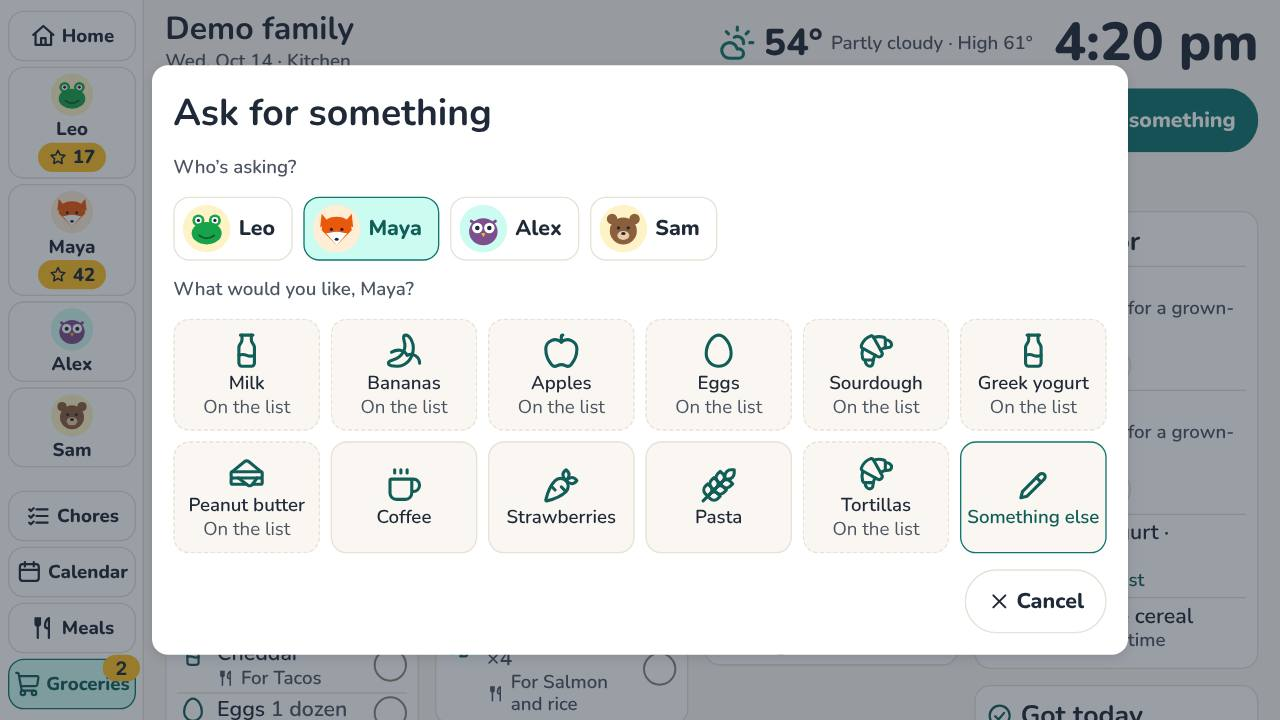
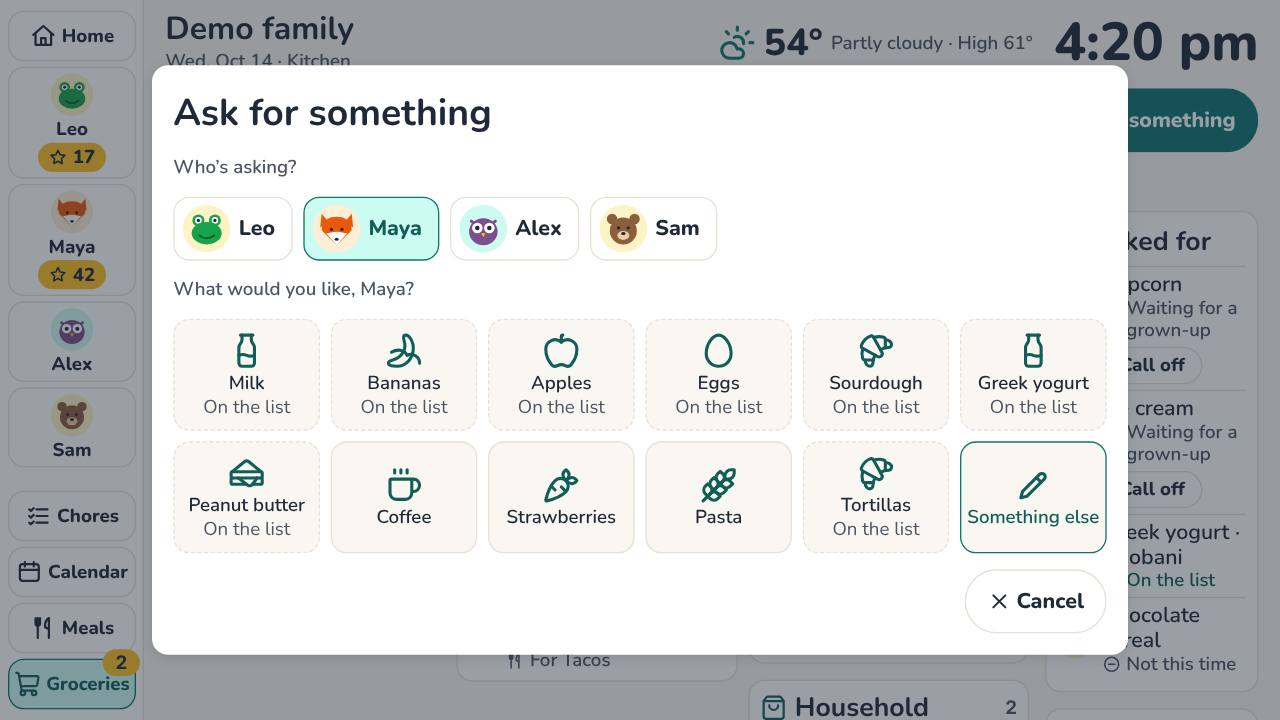
[MEAL-22][MEAL-30] WP-107: a long board list keeps names to two lines and is reached by touch
The side cards take 320 px and a thing's brand is set at the board's small size (28 px), so with the
Asked for and Got today cards beside them the list's three columns keep every name and brand to two
lines. The dev board gains ?groceries=long (35 things); the UI suite checks no name wraps past two
lines and that the last thing is reached and opened by touch; the screen shots add the long list
from the top and with its last thing opened. The rail's count sits above the word.

Claude-Session: https://claude.ai/code/session_019Ro1JkRRxvA5dTxsNGyjRt

diff --git a/apps/web/app/dev/board/fixture.ts b/apps/web/app/dev/board/fixture.ts
@@ -1457,7 +1457,14 @@ export function fixtureGroceries(
   which: string | undefined,
   now: Date = new Date(),
 ): BoardGroceries | null {
-  if (which !== '1' && which !== 'busy' && which !== 'empty' && which !== 'full') return null;
+  if (
+    which !== '1' &&
+    which !== 'busy' &&
+    which !== 'empty' &&
+    which !== 'full' &&
+    which !== 'long'
+  )
+    return null;
   const people = new Map([
     [GROCERY_PEOPLE.find((p) => p.name === 'Leo')!.id, LEO],
     [GROCERY_PEOPLE.find((p) => p.name === 'Maya')!.id, MAYA],
@@ -1564,6 +1571,39 @@ export function fixtureGroceries(
     k('Yogurt tubes', 'yogurt tube', 0),
     k('Rice', 'rice', 0),
   ];
+  // [MEAL-22] 'long': 16 more made-up things, so the list runs well past the board's 1080 px (WP-107).
+  if (which === 'long') {
+    const more: [string, string][] = [
+      ['Blueberries', 'produce'],
+      ['Carrots', 'produce'],
+      ['Cucumbers', 'produce'],
+      ['Garlic', 'produce'],
+      ['Butter', 'dairy'],
+      ['Sour cream', 'dairy'],
+      ['Bagels', 'bakery'],
+      ['Hamburger buns', 'bakery'],
+      ['Chicken thighs', 'meat'],
+      ['Bacon', 'meat'],
+      ['Spaghetti', 'pantry'],
+      ['Tomato sauce', 'pantry'],
+      ['Olive oil', 'pantry'],
+      ['Trash bags', 'household'],
+      ['Laundry detergent', 'household'],
+      ['Sponges', 'household'],
+    ];
+    more.forEach(([name, key], i) =>
+      items.push({
+        ...items[0]!,
+        id: `f1a80000-0000-4000-8000-${String(i + 1).padStart(12, '0')}`,
+        name,
+        amount: null,
+        categoryId: cat(key),
+        storeId: null,
+        brandId: null,
+        reasons: [],
+      }),
+    );
+  }
   return {
     ever: true,
     categories: GROCERY_CATEGORIES,

diff --git a/e2e/ui/board-grocery-asks.spec.ts b/e2e/ui/board-grocery-asks.spec.ts
@@ -199,3 +199,39 @@ test('[MEAL-30-d] a child takes off what only they asked for', async ({ page }) 
   await dialog(page).getByRole('button', { name: 'Take it off the list' }).click();
   await expect(bar(page)).toContainText('Took Apples off the list.');
 });
+
+test.describe('a long list, by touch', () => {
+  test.use({ hasTouch: true });
+
+  test('[MEAL-22-h][MEAL-30-d] 35 things: each name and brand in two lines at most; the last reached by touch', async ({
+    page,
+  }) => {
+    await openGroceries(page, 'groceries=long');
+    await expect(screen(page)).toContainText('35 to get');
+    const over = await screen(page)
+      .locator('.fw-bgroc__nm')
+      .evaluateAll((els) =>
+        els
+          .filter((e) => {
+            const line = parseFloat(getComputedStyle(e).lineHeight);
+            return Math.round(e.getBoundingClientRect().height / line) > 2;
+          })
+          .map((e) => e.textContent),
+      );
+    expect(over).toEqual([]);
+    // The screen scrolls inside itself; the list's last thing is below the fold until it does.
+    const scroller = page.locator('.fw-today__screen');
+    expect(
+      await scroller.evaluate((s) => ({
+        overflow: getComputedStyle(s).overflowY,
+        more: s.scrollHeight > s.clientHeight,
+      })),
+    ).toEqual({ overflow: 'auto', more: true });
+    const last = screen(page).getByRole('button', { name: /^Trash bags: got it/ });
+    await last.tap();
+    await expect(
+      page.getByRole('dialog').getByRole('heading', { name: /Trash bags/ }),
+    ).toBeVisible();
+    expect(await fit(page)).toEqual({ wide: 1920, small: [], tiny: [] });
+  });
+});

diff --git a/packages/ui/src/ui.css b/packages/ui/src/ui.css
@@ -6794,6 +6794,11 @@ textarea.fw-groc__addinput {
 .fw-bgroc__brand {
   color: var(--text-soft);
 }
+/* [MEAL-22] The brand a step smaller (still 28 px), so a thing and its brand keep to two lines in
+   the three columns beside the Asked for card (WP-107). */
+.fw-bgroc__nm .fw-bgroc__brand {
+  font-size: var(--t-small);
+}
 .fw-bgroc__wy {
   grid-column: 2;
   display: flex;
@@ -6836,7 +6841,7 @@ textarea.fw-groc__addinput {
 }
 .fw-today__railcount {
   position: absolute;
-  top: -8px;
+  top: -16px;
   right: -8px;
   display: inline-grid;
   place-items: center;
@@ -6864,18 +6869,19 @@ textarea.fw-groc__addinput {
 }
 .fw-bgroc__body {
   display: grid;
-  grid-template-columns: minmax(0, 1fr) minmax(340px, 26%);
+  grid-template-columns: minmax(0, 1fr) 320px;
   gap: var(--s-6);
   align-items: start;
 }
 .fw-bgroc__body .fw-bgroc__cols {
   columns: 3 300px;
+  column-gap: var(--s-4);
 }
 .fw-bgroc__sec li {
   display: block;
 }
 button.fw-bgroc__it {
-  grid-template-columns: 48px minmax(0, 1fr) 48px;
+  grid-template-columns: 44px minmax(0, 1fr) 44px;
   width: 100%;
   border-right: 0;
   border-bottom: 0;

diff --git a/apps/web/app/dev/board/page.tsx b/apps/web/app/dev/board/page.tsx
@@ -22,7 +22,8 @@ import { KITCHEN_SLEEP } from './fixture';
 // a goal done by a time and paid in steps (WP-81: ?steps=going|won|weighted, Maya's); a family goal
 // every child meets and Maya's perfect weeks (WP-82: ?perfect=going|missed|won); a request the server
 // took that Realtime never reports, shown by the board's own read (WP-110: ?missed=1); the grocery list
-// (WP-104: ?groceries=1, or ?groceries=empty for one emptied; none by default, no rail button).
+// (WP-104: ?groceries=1, or ?groceries=empty for one emptied; none by default, no rail button; WP-107: ?groceries=full
+// for Maya's 5 asks waiting, ?groceries=long for 35 things).
 export const metadata: Metadata = { title: 'Board Today', robots: { index: false } };
 
 export default async function DevBoardPage({

diff --git a/docs/08-test-strategy.md b/docs/08-test-strategy.md
@@ -277,7 +277,7 @@ Generated from the tests by `python3 docs/check_traceability.py --docs docs --fi
 
 ### 9.1 Coverage summary
 
-**3153** tests: Unit 991 · DB 1664 · UI 355 · E2E 143. 2631 name at least one ID; 522 name none.
+**3154** tests: Unit 991 · DB 1664 · UI 356 · E2E 143. 2632 name at least one ID; 522 name none.
 
 | Measure | Count |
 |---|---|
@@ -305,14 +305,14 @@ Area is the domain of the first requirement a test names. Layers: Unit (Vitest, 
 | Goals and rewards | 198 | 140 | 47 | 8 | 393 |
 | Calendar | 67 | 92 | 19 | 5 | 183 |
 | School year | 10 | 43 | 1 | 4 | 58 |
-| Meals and lunch | 124 | 159 | 84 | 19 | 386 |
+| Meals and lunch | 124 | 159 | 85 | 19 | 387 |
 | School menu | 30 | 14 | 8 | 3 | 55 |
 | Board | 29 | 68 | 34 | 11 | 142 |
 | Boards and devices | 67 | 84 | 14 | 13 | 178 |
 | Admin and members | 27 | 87 | 11 | 15 | 140 |
 | Platform | 197 | 167 | 61 | 18 | 443 |
 | Not named | 58 | 499 | 10 | 1 | 568 |
-| **Total** | **991** | **1664** | **355** | **143** | **3153** |
+| **Total** | **991** | **1664** | **356** | **143** | **3154** |
 
 ### 9.3 By requirement
 
@@ -418,7 +418,7 @@ Status: **Covered** (built, and at least one test names it), **Gap** (built, no 
 | MEAL-19 | S | Covered | US-715 | WP-105, WP-113 | MEAL-19-a, MEAL-19-b, MEAL-19-c, MEAL-19-d, MEAL-19-e, MEAL-19-f | U 4 · DB 2 · UI 2 · E2E 1 |
 | MEAL-20 | S | Covered | US-715 | WP-105 | MEAL-20-a, MEAL-20-b, MEAL-20-c, MEAL-20-d | U 8 · DB 2 · E2E 1 |
 | MEAL-21 | S | Not built | US-716 | WP-106 | — | — |
-| MEAL-22 | S | Covered | US-717 | WP-107 | MEAL-22-a, MEAL-22-b, MEAL-22-c, MEAL-22-d, MEAL-22-e, MEAL-22-f, MEAL-22-g, MEAL-22-h, MEAL-22-i, MEAL-22-j | U 9 · DB 34 · UI 6 · E2E 1 |
+| MEAL-22 | S | Covered | US-717 | WP-107 | MEAL-22-a, MEAL-22-b, MEAL-22-c, MEAL-22-d, MEAL-22-e, MEAL-22-f, MEAL-22-g, MEAL-22-h, MEAL-22-i, MEAL-22-j | U 9 · DB 34 · UI 7 · E2E 1 |
 | MEAL-23 | S | Covered | US-718 | WP-104 | MEAL-23-a, MEAL-23-b, MEAL-23-c, MEAL-23-d, MEAL-23-e | U 3 · DB 3 · UI 3 · E2E 1 |
 | MEAL-24 | S | Covered | US-719 | WP-104 | MEAL-24-a, MEAL-24-b, MEAL-24-c, MEAL-24-d, MEAL-24-e | U 5 · DB 1 · UI 1 |
 | MEAL-25 | S | Covered | US-720 | WP-96, WP-105 | MEAL-25-h, MEAL-25-a, MEAL-25-b, MEAL-25-c, MEAL-25-d, MEAL-25-e, MEAL-25-f, MEAL-25-g | U 13 · DB 2 · UI 2 · E2E 1 |
@@ -426,7 +426,7 @@ Status: **Covered** (built, and at least one test names it), **Gap** (built, no 
 | MEAL-27 | S | Covered | US-721 | WP-112 | MEAL-27-a, MEAL-27-b, MEAL-27-c, MEAL-27-d, MEAL-27-e | U 2 · UI 7 · E2E 1 |
 | MEAL-28 | S | Covered | US-721 | WP-112 | MEAL-28-a, MEAL-28-b, MEAL-28-c, MEAL-28-d, MEAL-28-e, MEAL-28-f, MEAL-28-g | U 2 · DB 13 · UI 4 · E2E 1 |
 | MEAL-29 | S | Covered | US-722 | WP-116 | MEAL-29-a, MEAL-29-b, MEAL-29-c, MEAL-29-d, MEAL-29-e, MEAL-29-f, MEAL-29-g, MEAL-29-h, MEAL-29-i, MEAL-29-j, MEAL-29-k, MEAL-29-l | U 11 · DB 37 · UI 15 · E2E 1 |
-| MEAL-30 | S | Covered | US-723 | WP-107 | MEAL-30-a, MEAL-30-b, MEAL-30-c, MEAL-30-d, MEAL-30-e | U 4 · DB 14 · UI 3 · E2E 1 |
+| MEAL-30 | S | Covered | US-723 | WP-107 | MEAL-30-a, MEAL-30-b, MEAL-30-c, MEAL-30-d, MEAL-30-e | U 4 · DB 14 · UI 4 · E2E 1 |
 | MENU-01 | M | Covered | US-801 | WP-27 | — | U 3 · DB 1 · UI 2 · E2E 1 |
 | MENU-02 | M | Covered | US-801 | WP-27 | — | U 4 · DB 2 · UI 2 · E2E 1 |
 | MENU-03 | M | Covered | US-802 | WP-27 | — | U 6 · DB 3 · UI 2 · E2E 1 |
@@ -860,13 +860,13 @@ Test cases and the tests that prove them:
 | MEAL-22-e | WP-107 | A waiting ask counts in the approvals alert ("Maya: 1 grocery ask waiting"), which opens Groceries when only asks wait, and an ask calls the alert at once | DB | DB `supabase/tests/610_board_grocery_asks.test.sql`: `[MEAL-22-e] a waiting ask calls the alert at once (once per transaction)`<br>DB `supabase/tests/610_board_grocery_asks.test.sql`: `[MEAL-22-e] the alert counts them`<br>DB `supabase/tests/610_board_grocery_asks.test.sql`: `[MEAL-22-e] with only asks waiting, it opens Groceries` |
 | MEAL-22-f | WP-107 | The board's Asked for card: "Waiting for a grown-up", "On the list", and until the household's day ends "Got it!" (its item ticked) or "Not this time"; a call-off goes; the 11 tiles are the most-bought things (a made-up starter set without history), each marked "On the list" or "Asked" | Unit | Unit `apps/web/lib/grocery-asks.test.ts`: `[MEAL-22] the board’s Asked for card › [MEAL-22-f] says how each ask stands, in words, and leaves out what has gone`<br>Unit `apps/web/lib/grocery-asks.test.ts`: `[MEAL-22] the board’s Asked for card › [MEAL-22-f] reads the asks, Got today and what the household has had from board_groceries()`<br>Unit `apps/web/lib/grocery-asks.test.ts`: `[MEAL-22] the board’s Asked for card › [MEAL-22-f] the tiles: the most bought first, the starter set after, marked on the list or asked` |
 | MEAL-22-g | WP-107 | The brand row for a thing: the household's brands it has had, last time's first and picked, then No brand; none when it never had one; the answer's words: "Asked for Popcorn, Maya. A grown-up will say OK.", "Added Popcorn to the list.", "Already on the list! We added that you asked.", "You have 5 asks waiting." | Unit | Unit `apps/web/lib/grocery-asks.test.ts`: `[MEAL-22] the brand row and the words › [MEAL-22-g] the household’s brands the thing has had, last time’s first and picked; none without`<br>Unit `apps/web/lib/grocery-asks.test.ts`: `[MEAL-22] the brand row and the words › [MEAL-22-g] what the board says back`<br>Unit `apps/web/lib/grocery-asks.test.ts`: `[MEAL-22] the brand row and the words › [MEAL-22-g] matches what is typed: starting with it first, then holding it, at most 3` |
-| MEAL-22-h | WP-107 | The board's Groceries on the demo family, Day and Evening: Ask for something; who, then the tiles; the brand row; Something else on the board's keyboard with matches; the Asked bar; 5 waiting greys the tiles; Call off; text 28 px or more and buttons 56 px or more | UI | UI `e2e/ui/board-grocery-asks.spec.ts`: `[MEAL-22-h] Ask for something, the Asked for card and Got today, 28 px and 56 px, in ${theme}`<br>UI `e2e/ui/board-grocery-asks.spec.ts`: `[MEAL-22-h] a tile with brands shows its brand row; asking says it waits; Call off takes it back`<br>UI `e2e/ui/board-grocery-asks.spec.ts`: `[MEAL-22-h] Something else on the board’s keyboard, with matches; an adult’s ask goes on the list`<br>UI `e2e/ui/board-grocery-asks.spec.ts`: `[MEAL-22-h] with 5 waiting, a child’s tiles grey out and say why` |
+| MEAL-22-h | WP-107 | The board's Groceries on the demo family, Day and Evening: Ask for something; who, then the tiles; the brand row; Something else on the board's keyboard with matches; the Asked bar; 5 waiting greys the tiles; Call off; text 28 px or more and buttons 56 px or more | UI | UI `e2e/ui/board-grocery-asks.spec.ts`: `[MEAL-22-h] Ask for something, the Asked for card and Got today, 28 px and 56 px, in ${theme}`<br>UI `e2e/ui/board-grocery-asks.spec.ts`: `[MEAL-22-h] a tile with brands shows its brand row; asking says it waits; Call off takes it back`<br>UI `e2e/ui/board-grocery-asks.spec.ts`: `[MEAL-22-h] Something else on the board’s keyboard, with matches; an adult’s ask goes on the list`<br>UI `e2e/ui/board-grocery-asks.spec.ts`: `[MEAL-22-h] with 5 waiting, a child’s tiles grey out and say why`<br>UI `e2e/ui/board-grocery-asks.spec.ts`: `a long list, by touch › [MEAL-22-h][MEAL-30-d] 35 things: each name and brand in two lines at most; the last reached by touch` |
 | MEAL-22-i | WP-107 | The admin app's Groceries: Asked for with Add it, Not this time and Add all, and Wait for a grown-up's OK with a switch per child; Home's Needs you line; on a phone and a laptop, Day and Evening, nothing overflows | UI | Unit `apps/web/lib/grocery-asks.test.ts`: `[MEAL-22] the brand row and the words › [MEAL-22-i] Home’s Needs you says how many grocery asks wait, and opens Groceries`<br>UI `e2e/ui/grocery-asks.spec.ts`: `grocery asks on ${device} › [MEAL-22-i] Asked for with Add it, Not this time, Add all and each child’s OK, in ${theme}`<br>UI `e2e/ui/grocery-asks.spec.ts`: `grocery asks on ${device} › [MEAL-22-i] Home’s Needs you counts the grocery asks and opens Asked for` |
 | MEAL-22-j | WP-107 | On the real preview, a child asks at a paired board, a parent adds it on Groceries, and the item is on the list with "Maya asked" | E2E | E2E `e2e/tests/board-grocery-asks.spec.ts`: `[MEAL-22-j][US-717] Maya asks at the board; it waits; Alex adds it; it is on the list as hers` |
 | MEAL-30-a | WP-107 | A board ticks, unticks and takes off only its own household's items, as one of its own members (`board_tick_groceries()`, `board_remove_groceries()`); each is recorded with the member and the board; a tick is a buy (Got recently), a removal isn't | DB | DB `supabase/tests/610_board_grocery_asks.test.sql`: `[MEAL-30-a] another household's board can't tick this household's items`<br>DB `supabase/tests/610_board_grocery_asks.test.sql`: `[MEAL-30-a] nor as another household's member`<br>DB `supabase/tests/610_board_grocery_asks.test.sql`: `[MEAL-30-a] a parent's session is not a board`<br>DB `supabase/tests/610_board_grocery_asks.test.sql`: `[MEAL-30-a] Leo ticks Rice`<br>DB `supabase/tests/610_board_grocery_asks.test.sql`: `[MEAL-30-a] a buy, by Leo at the Kitchen board`<br>DB `supabase/tests/610_board_grocery_asks.test.sql`: `[MEAL-30-a] Untick puts it back`<br>DB `supabase/tests/610_board_grocery_asks.test.sql`: `[MEAL-30-a] the removal is Pat's, not a buy` |
 | MEAL-30-b | WP-107 | A child ticks anything but takes off only a thing every reason of which is their own ask; an adult takes off anything; Undo (`board_restore_groceries()`) puts back what that board took off in the last 10 minutes, folded into the same thing if it was added again meanwhile | DB | DB `supabase/tests/610_board_grocery_asks.test.sql`: `[MEAL-30-b] Leo can't take off what Pat added`<br>DB `supabase/tests/610_board_grocery_asks.test.sql`: `[MEAL-30-b] nor can Maya take off Milk, which she only joined`<br>DB `supabase/tests/610_board_grocery_asks.test.sql`: `[MEAL-30-b] Leo takes off Apples, his own ask`<br>DB `supabase/tests/610_board_grocery_asks.test.sql`: `[MEAL-30-b] Pat takes off Paper towels`<br>DB `supabase/tests/610_board_grocery_asks.test.sql`: `[MEAL-30-b] another household's board can't undo it`<br>DB `supabase/tests/610_board_grocery_asks.test.sql`: `[MEAL-30-b] Undo puts it back`<br>DB `supabase/tests/610_board_grocery_asks.test.sql`: `[MEAL-30-b] ... once: the one added meanwhile is folded into it` |
 | MEAL-30-c | WP-107 | The face picked stays 2 minutes; Got today lists today's ticks newest first, 5 then "and 3 more"; Take it off is greyed for a child with "Only a grown-up can take this off." unless it is only their ask; Got recently says "Got by Leo at the Kitchen board" | Unit | Unit `apps/web/lib/grocery-asks.test.ts`: `[MEAL-30] ticking off and taking off at the board › [MEAL-30-c] the face picked stays 2 minutes`<br>Unit `apps/web/lib/grocery-asks.test.ts`: `[MEAL-30] ticking off and taking off at the board › [MEAL-30-c] a child takes off only what they alone asked for; an adult anything`<br>Unit `apps/web/lib/grocery-asks.test.ts`: `[MEAL-30] ticking off and taking off at the board › [MEAL-30-c] Got today: newest first, 5, then how many more`<br>Unit `apps/web/lib/grocery-asks.test.ts`: `[MEAL-30] ticking off and taking off at the board › [MEAL-30-c] Got recently says who got it, and at which board`<br>UI `e2e/ui/grocery-asks.spec.ts`: `grocery asks on ${device} › [MEAL-30-c] Got recently says who got a thing at the board` |
-| MEAL-30-d | WP-107 | The board's item sheet with Who's this?, Got it and Take it off the list; the Undo bar; Got today with Untick; Day and Evening, 56 px targets | UI | UI `e2e/ui/board-grocery-asks.spec.ts`: `[MEAL-30-d] a thing’s sheet: who, Got it, Take it off with Undo, Got today with Untick, in ${theme}`<br>UI `e2e/ui/board-grocery-asks.spec.ts`: `[MEAL-30-d] a child takes off what only they asked for` |
+| MEAL-30-d | WP-107 | The board's item sheet with Who's this?, Got it and Take it off the list; the Undo bar; Got today with Untick; Day and Evening, 56 px targets | UI | UI `e2e/ui/board-grocery-asks.spec.ts`: `[MEAL-30-d] a thing’s sheet: who, Got it, Take it off with Undo, Got today with Untick, in ${theme}`<br>UI `e2e/ui/board-grocery-asks.spec.ts`: `[MEAL-30-d] a child takes off what only they asked for`<br>UI `e2e/ui/board-grocery-asks.spec.ts`: `a long list, by touch › [MEAL-22-h][MEAL-30-d] 35 things: each name and brand in two lines at most; the last reached by touch` |
 | MEAL-30-e | WP-107 | On the real preview, at a paired board, an adult ticks a thing and takes another off and puts it back with Undo; the admin app's Got recently says who got it at that board | E2E | E2E `e2e/tests/board-grocery-asks.spec.ts`: `[MEAL-30-e][US-723] Sam ticks a thing off, takes another off and puts it back; Got recently says so` |
 | MEAL-27-a | WP-112 | Home's card says "8 on the list", "1 on the list" or "Nothing on the list"; as an item is typed its line says its category and its store with why ("Meat & Seafood · Kroger, where it went last time", "Pantry · Costco, your preferred store", "Other · Any store"); something already on the list says "Onions ×3 are on the list already. Adding makes ×4." | Unit | Unit `apps/web/lib/groceries.test.ts`: `the store suggested, and Home’s card (WP-112) › [MEAL-27-a] the card’s count and its line as an item is typed` |
 | MEAL-27-b | WP-112 | After Add the card says "Added Ground beef 2 lb to Meat & Seafood." with the item's name and amount as the list now has them, merged or new | Unit | Unit `apps/web/lib/groceries.test.ts`: `the store suggested, and Home’s card (WP-112) › [MEAL-27-b] after Add, the item as the list now has it` |
@@ -2929,7 +2929,7 @@ UI · 4 tests
 
 #### `e2e/ui/board-grocery-asks.spec.ts`
 
-UI · 6 tests
+UI · 7 tests
 
 | Test | Names |
 |---|---|
@@ -2939,6 +2939,7 @@ UI · 6 tests
 | `[MEAL-22-h] with 5 waiting, a child’s tiles grey out and say why` | MEAL-22-h |
 | `[MEAL-30-d] a thing’s sheet: who, Got it, Take it off with Undo, Got today with Untick, in ${theme}` | MEAL-30-d |
 | `[MEAL-30-d] a child takes off what only they asked for` | MEAL-30-d |
+| `a long list, by touch › [MEAL-22-h][MEAL-30-d] 35 things: each name and brand in two lines at most; the last reached by touch` | MEAL-22-h, MEAL-30-d |
 
 #### `e2e/ui/board-meals.spec.ts`
 

diff --git a/docs/04-requirements-traceability.md b/docs/04-requirements-traceability.md
@@ -272,7 +272,7 @@ Stories and Work packages are generated from `03-user-stories.md` and `05-backlo
 | MEAL-19 | US-715 | WP-105, WP-113 | ADM, API, DB | meal, meal_plan_entry, grocery_item | U, DB, E2E | U 4 · DB 2 · UI 2 · E2E 1 |
 | MEAL-20 | US-715 | WP-105 | API, DB | grocery_item, grocery_item_event | U, DB | U 8 · DB 2 · E2E 1 |
 | MEAL-21 | US-716 | WP-106 | ADM, DB | grocery_item, grocery_item_event | U, DB, E2E | — |
-| MEAL-22 | US-717 | WP-107 | BRD, ADM, API, DB | grocery_ask, grocery_item, grocery_item_event | U, DB, E2E | U 9 · DB 34 · UI 6 · E2E 1 |
+| MEAL-22 | US-717 | WP-107 | BRD, ADM, API, DB | grocery_ask, grocery_item, grocery_item_event | U, DB, E2E | U 9 · DB 34 · UI 7 · E2E 1 |
 | MEAL-23 | US-718 | WP-104 | ADM, BRD, DB | grocery_category, grocery_store, grocery_item | U, DB, E2E | U 3 · DB 3 · UI 3 · E2E 1 |
 | MEAL-24 | US-719 | WP-104 | ADM, DB | grocery_item, grocery_item_event | U, DB | U 5 · DB 1 · UI 1 |
 | MEAL-25 | US-720 | WP-96, WP-105 | ADM, API, DB | meal, meal_recipe_file | U, DB, E2E | U 13 · DB 2 · UI 2 · E2E 1 |
@@ -280,7 +280,7 @@ Stories and Work packages are generated from `03-user-stories.md` and `05-backlo
 | MEAL-27 | US-721 | WP-112 | ADM, DB | grocery_item, grocery_category, grocery_store | U, E2E | U 2 · UI 7 · E2E 1 |
 | MEAL-28 | US-721 | WP-112 | ADM, DB | grocery_list, grocery_store, grocery_item | U, DB, E2E | U 2 · DB 13 · UI 4 · E2E 1 |
 | MEAL-29 | US-722 | WP-116 | ADM, DB | grocery_brand, grocery_item | U, DB, E2E | U 11 · DB 37 · UI 15 · E2E 1 |
-| MEAL-30 | US-723 | WP-107 | BRD, API, DB | grocery_item, grocery_item_event | U, DB, E2E | U 4 · DB 14 · UI 3 · E2E 1 |
+| MEAL-30 | US-723 | WP-107 | BRD, API, DB | grocery_item, grocery_item_event | U, DB, E2E | U 4 · DB 14 · UI 4 · E2E 1 |
 | MENU-01 | US-801 | WP-27 | ADM, MENUIMP | menu_source, member_lunch | U, DB, E2E | U 3 · DB 1 · UI 2 · E2E 1 |
 | MENU-02 | US-801 | WP-27 | MENUIMP | menu_source | U, DB, E2E | U 4 · DB 2 · UI 2 · E2E 1 |
 | MENU-03 | US-802 | WP-27 | ADM, MENUIMP | school_menu_day | U, DB, E2E | U 6 · DB 3 · UI 2 · E2E 1 |
@@ -340,7 +340,7 @@ Stories and Work packages are generated from `03-user-stories.md` and `05-backlo
 
 - Requirements: **151** · with at least one story: **151** · stories: **133** (P0: 12 · P1: 52 · P2: 30 · P3: 39).
 - With at least one work package: **151** · work packages: **113**.
-- Tests: **3153** (2585 name a requirement) · built requirements with a test: **136 of 136** · known test gaps: **104** (`08` §9.6).
+- Tests: **3154** (2586 name a requirement) · built requirements with a test: **136 of 136** · known test gaps: **104** (`08` §9.6).
 - Generated by `check_traceability.py --fix`; do not edit by hand.
 
 ---
